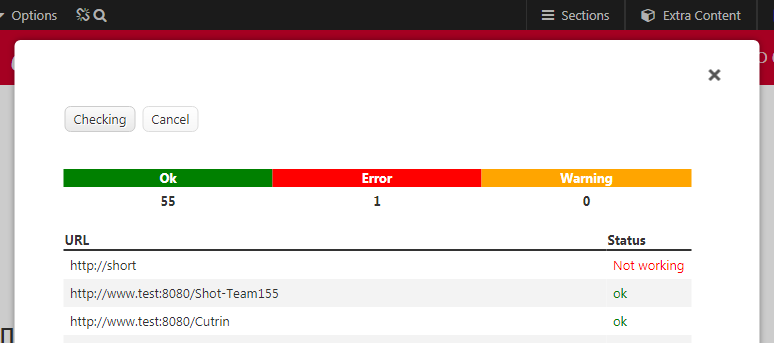
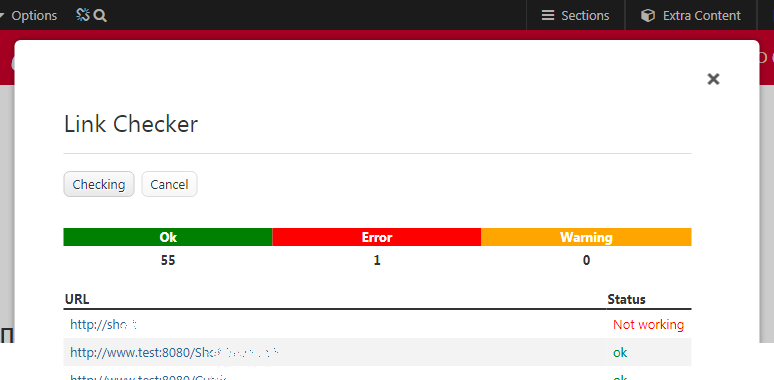
styling

diff --git a/LinkChecker.php b/LinkChecker.php
@@ -74,18 +74,18 @@ class LinkChecker {
 				'title="check Links" class="" data-cmd="gpabox"'
 			);
 
+			ob_start();
+			echo '<div class="inline_box">';
+			echo '<h3>Link Checker</h3>';
+			echo '<hr>';
 			switch( $cmd ){
 				case 'LC_Form':
-					ob_start();
 					if ( $page->visibility || \gp\tool\Files::Exists(dirname($page->file).'/draft.php') ) {
-						ob_start();
-						echo '<div class="inline_box">';
 						echo 'Action is not available for drafts or private pages';
 						echo '</div>';
 						return 'return';
 					}
 
-					echo '<div class="inline_box">';
 					echo self::LinkCheckerForm();
 					echo '<br>';
 					$result = self::AddLinkCheckerTable();
@@ -100,8 +100,6 @@ class LinkChecker {
 					break;
 				
 				case 'LC_Check':
-					ob_start();
-					echo '<div class="inline_box">';
 					echo self::LinkCheckerForm();
 					echo '<br>';
 					echo self::GetLinkCheckerTable();
